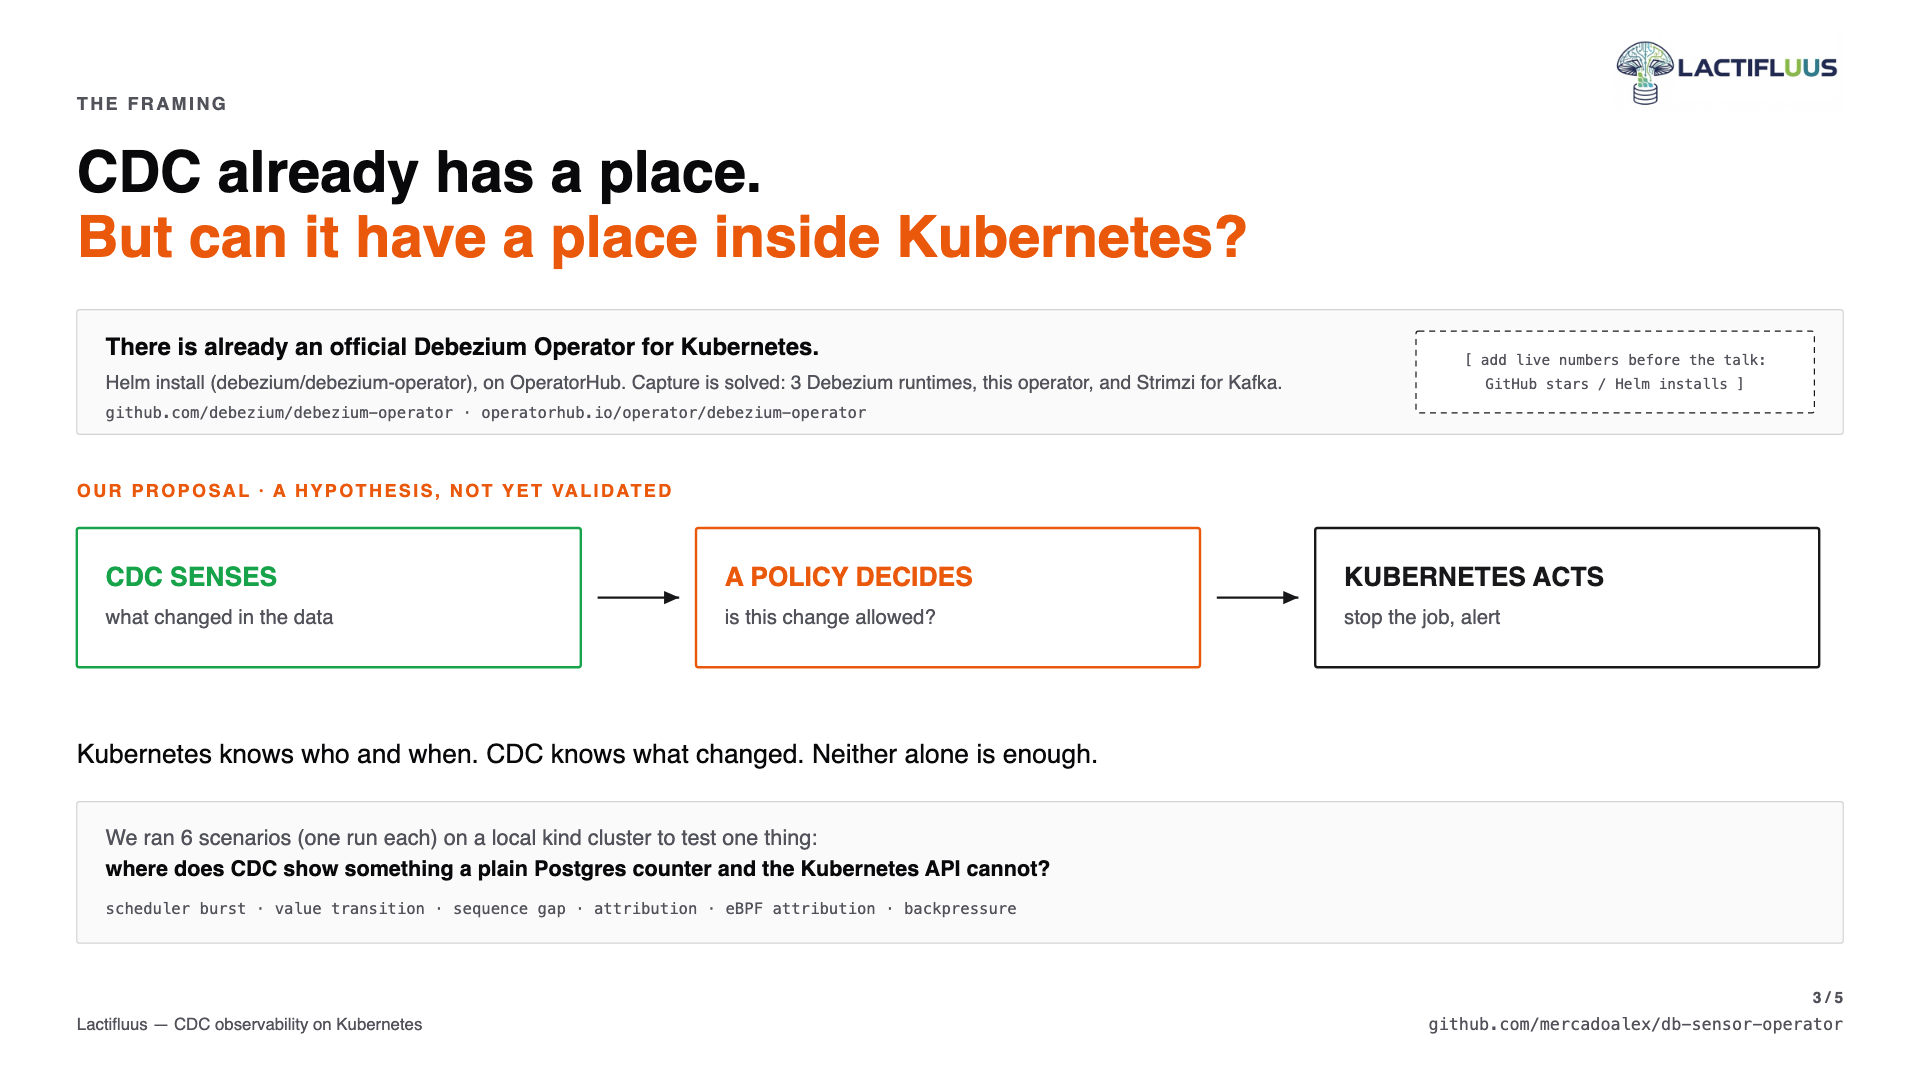
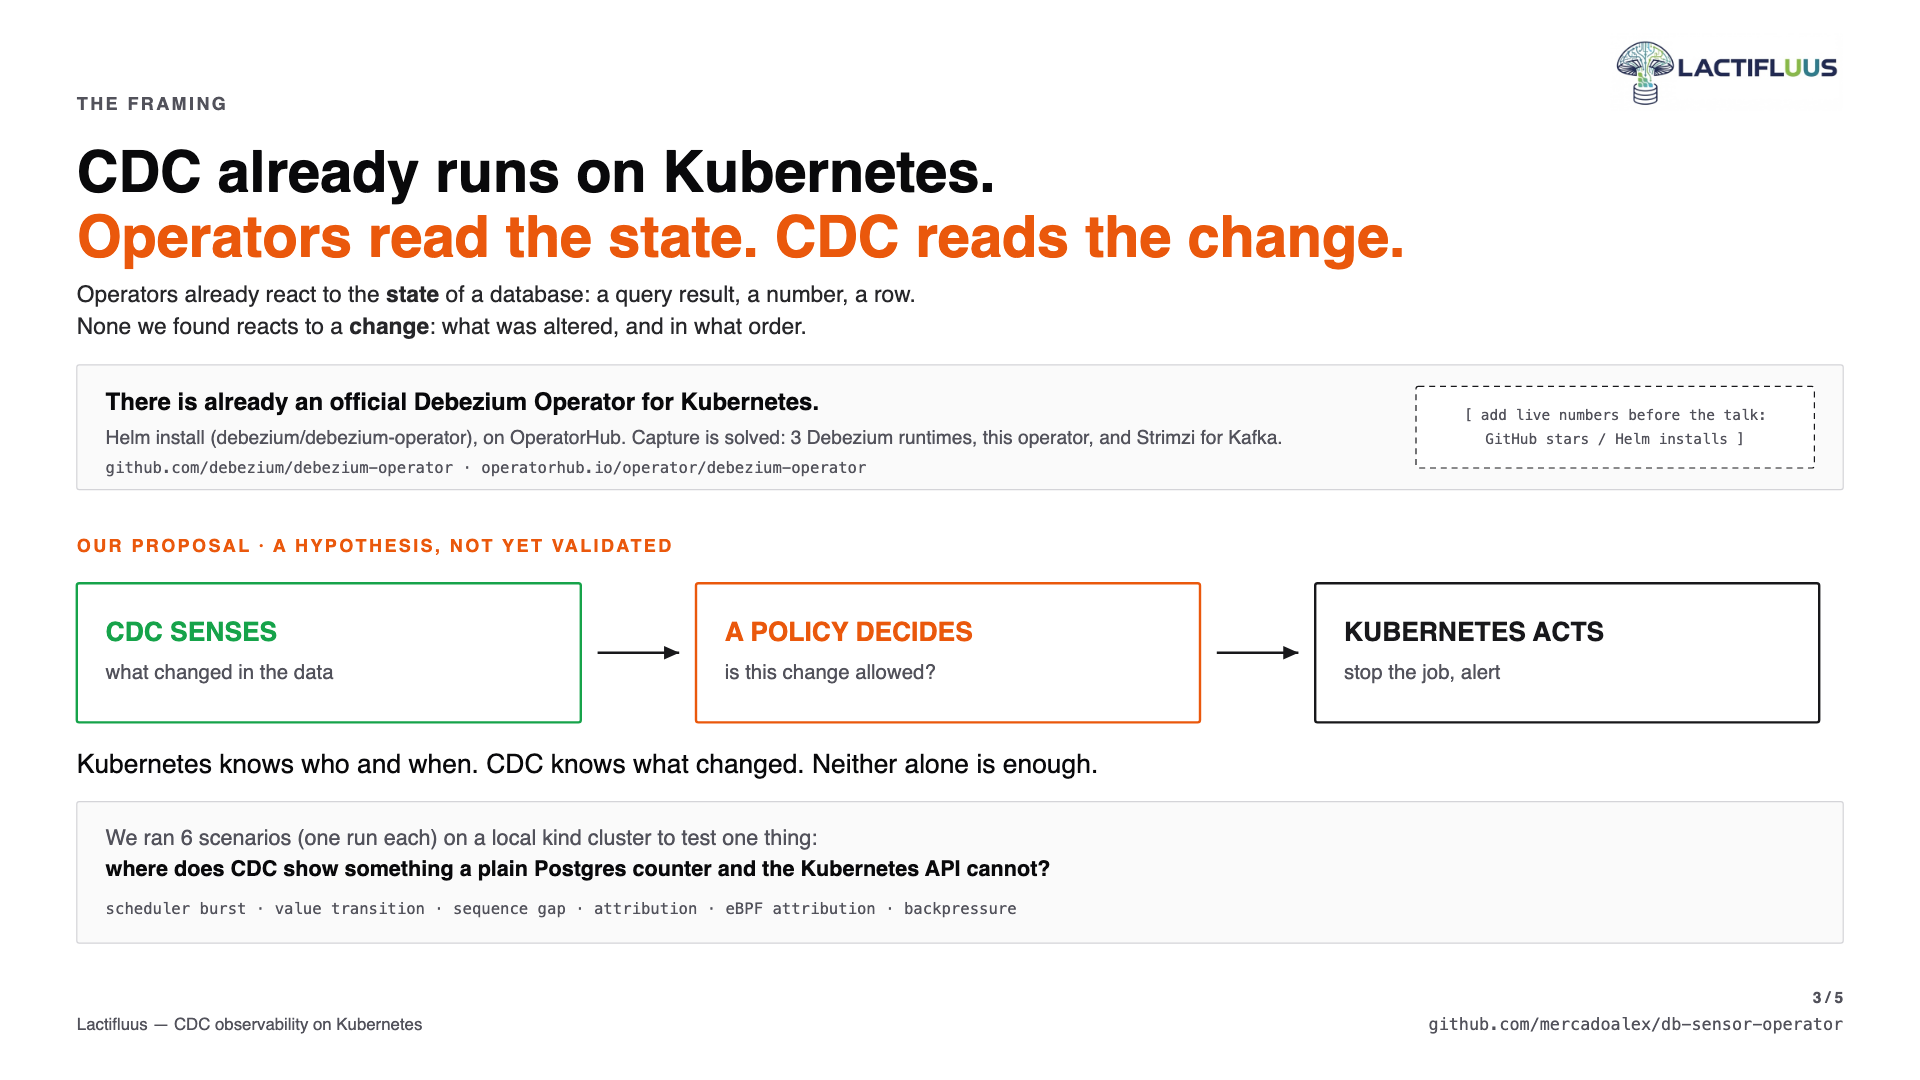
docs(deck): reframe slide 03 as state versus change; note on slot alerts in A1
Slide 03: the headline now says CDC already runs on Kubernetes and that operators
read the state while CDC reads the change, with a two-line explanation. The old
rhetorical question is gone. Layout below the headline moved down 46 units.
A1: a note that generic PostgreSQL monitoring can already alert on an inactive
slot (a postgres_exporter rule), so the slot row is true of the three Debezium
operators only. PNGs re-rendered. The presenter-notes legend moves to the top
center so it no longer covers the logo.

diff --git a/docs/overview/deck.html b/docs/overview/deck.html
@@ -53,7 +53,7 @@
   .note:hover .tip, .note:focus-visible .tip, .note.pinned .tip { display: block; }
   .tip b { display: block; margin-bottom: 4px; color: #fff; }
   .tip em { display: block; margin-bottom: 6px; font-style: normal; font-size: 12px; color: #aaa; text-transform: uppercase; letter-spacing: .05em; }
-  #legend { display: none; position: fixed; right: 8px; top: 8px; z-index: 50; padding: 6px 10px; border-radius: 6px;
+  #legend { display: none; position: fixed; left: 50%; transform: translateX(-50%); top: 8px; z-index: 50; padding: 6px 10px; border-radius: 6px;
             background: rgba(0,0,0,.78); color: #ddd; font-size: 12px; line-height: 1.6; }
   body.notes-on #legend { display: block; }
   #legend i { display: inline-block; width: 16px; height: 16px; margin-right: 6px; border-radius: 50%; color: #fff; font: 700 11px/16px Arial, sans-serif; text-align: center; font-style: normal; }
